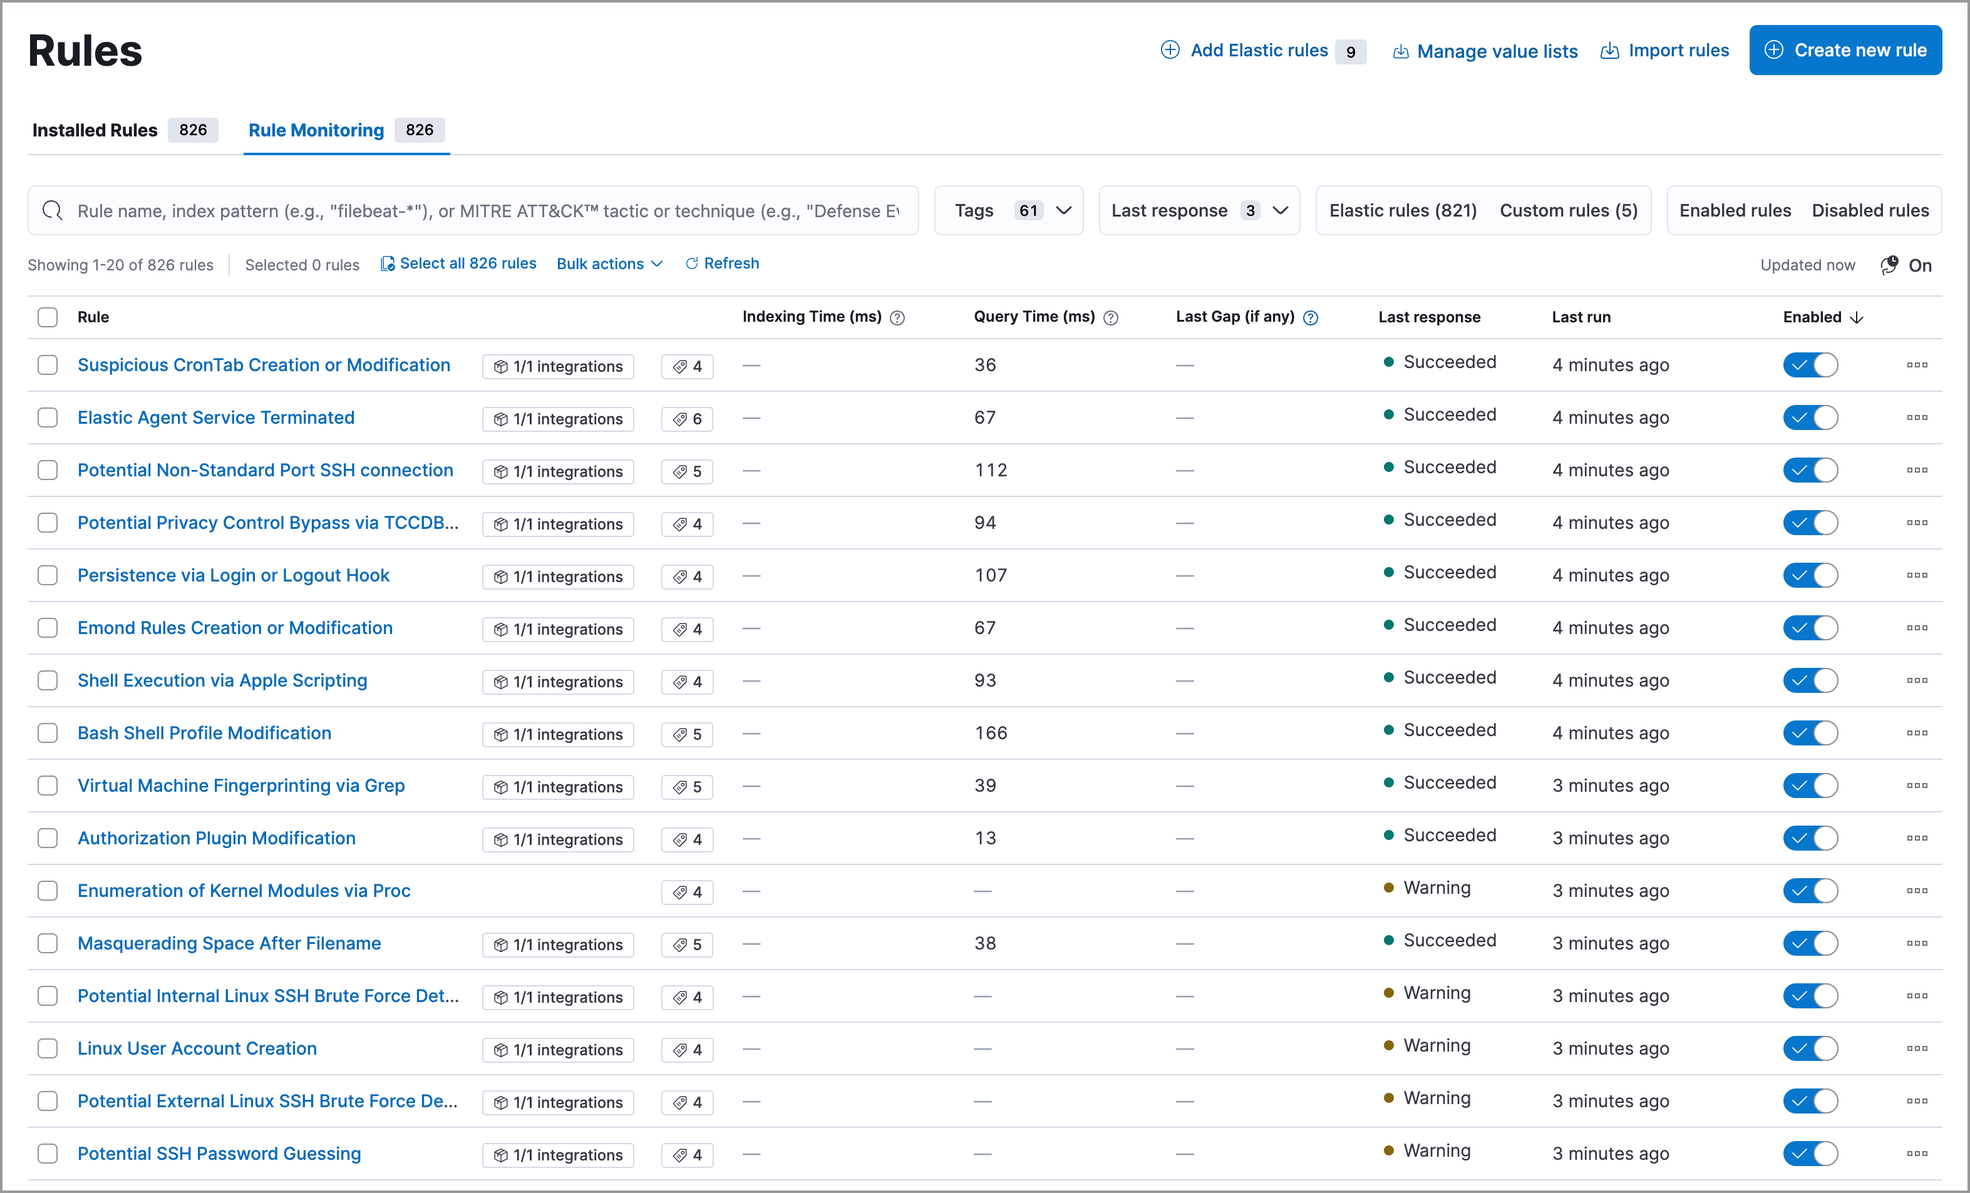
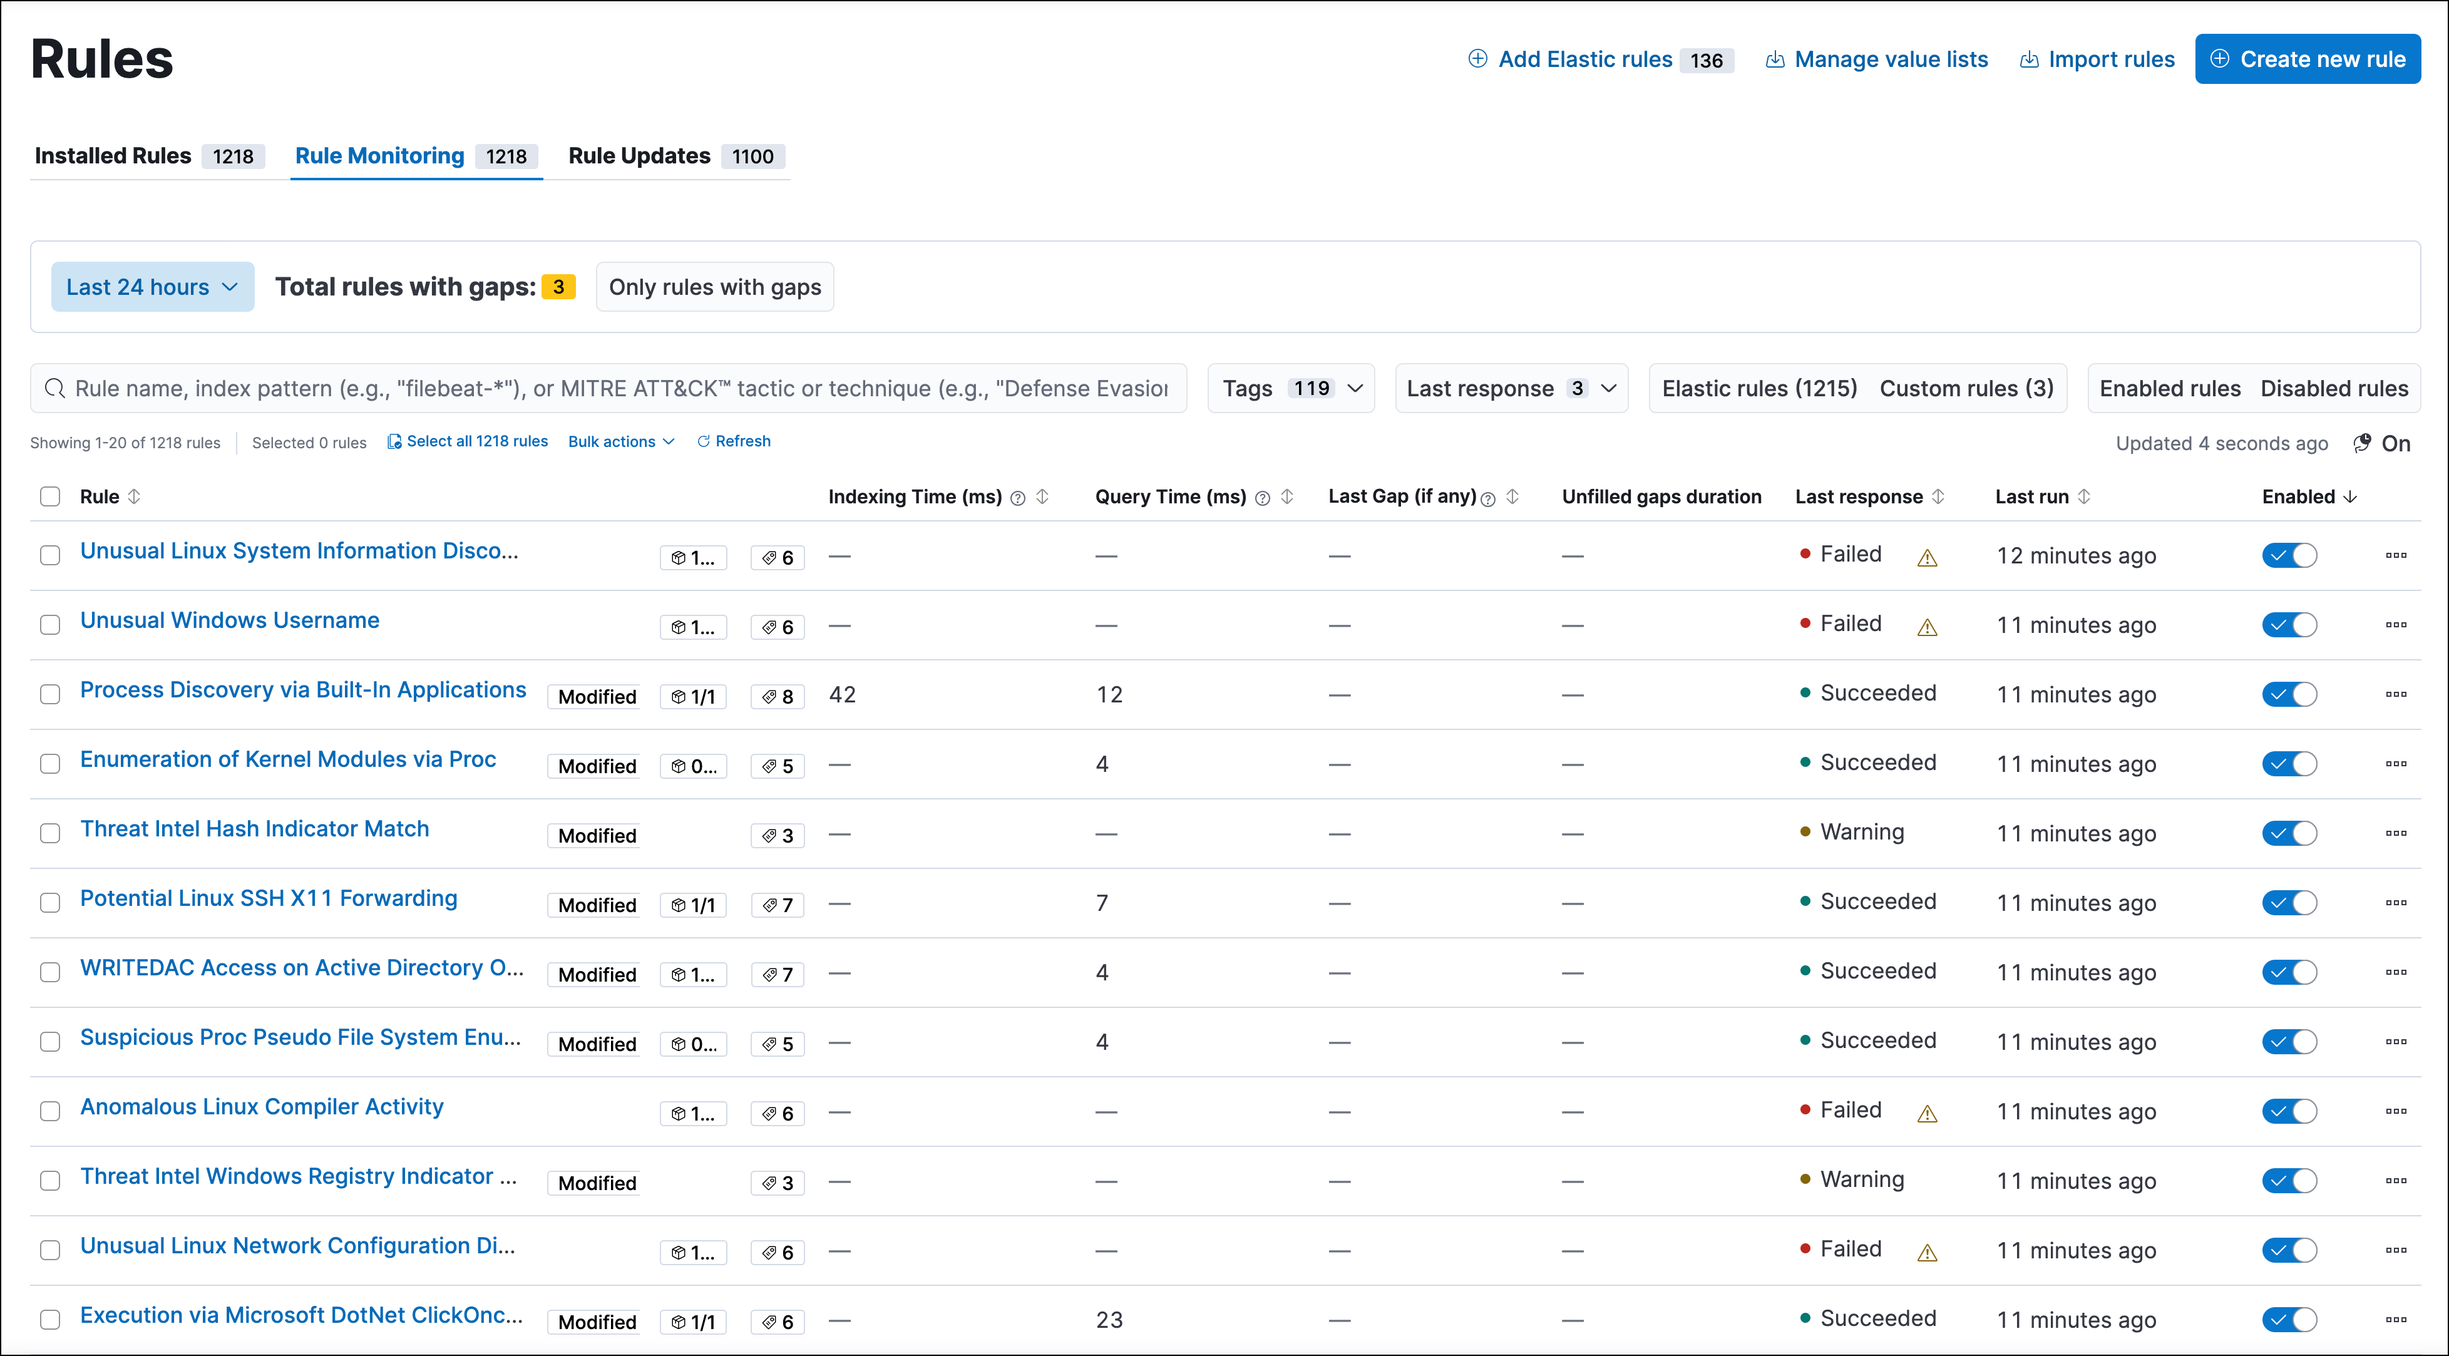
[9.0 & Serverless] Rule gaps and manual rule runs (#892)
Contributes to https://github.com/elastic/security-docs/issues/6493,
https://github.com/elastic/docs-content/issues/287, and
https://github.com/elastic/docs-content/issues/888 by providing 9.0 and
Serverless docs for rule gaps and updating docs for manual runs. See
twin 8.18 PR (https://github.com/elastic/security-docs/pull/6649) for a
breakdown of changes.

**NOTE:** This PR also contains minor fixes to other Serverless pages to
remove errors like double spaces.

Previews:

- [Rule Monitoring
tab](https://docs-v3-preview.elastic.dev/elastic/docs-content/pull/892/solutions/security/detect-and-alert/monitor-rule-executions)
- [Execution results
tab](https://docs-v3-preview.elastic.dev/elastic/docs-content/pull/892/solutions/security/detect-and-alert/monitor-rule-executions#rule-execution-logs)
- [Gaps
table](https://docs-v3-preview.elastic.dev/elastic/docs-content/pull/892/solutions/security/detect-and-alert/monitor-rule-executions#gaps-table)
- [Manual runs
table](https://docs-v3-preview.elastic.dev/elastic/docs-content/pull/892/solutions/security/detect-and-alert/monitor-rule-executions#manual-runs-table)
- [Manage detection rules | Run rules
manually](https://docs-v3-preview.elastic.dev/elastic/docs-content/pull/892/solutions/security/detect-and-alert/manage-detection-rules#manually-run-rules)

---------

diff --git a/solutions/security/detect-and-alert/monitor-rule-executions.md b/solutions/security/detect-and-alert/monitor-rule-executions.md
@@ -21,7 +21,7 @@ Refer to the [Troubleshoot missing alerts](../../../troubleshoot/security/detect
 
 ## Rule Monitoring tab [rule-monitoring-tab]
 
-To view a summary of all rule executions, including the most recent failures and execution times, select the **Rule Monitoring** tab on the **Rules** page. To access the tab, find **Detection rules (SIEM)** in the navigation menu or look for “Detection rules (SIEM)” using the [global search field](/explore-analyze/find-and-organize/find-apps-and-objects.md), then go to the **Rule Monitoring** tab.
+To view a summary of all rule executions (including the most recent failures, execution times, and gaps in rule executions), select the **Rule Monitoring** tab on the **Rules** page. To access the tab, find **Detection rules (SIEM)** in the navigation menu or look for “Detection rules (SIEM)” using the [global search field](/explore-analyze/find-and-organize/find-apps-and-objects.md), then go to the **Rule Monitoring** tab.
 
 :::{image} /solutions/images/security-monitor-table.png
 :alt: monitor table
@@ -37,19 +37,28 @@ To sort the rules list, click any column header. To sort in descending order, cl
 
 For detailed information on a rule, the alerts it generated, and associated errors, click on its name in the table. This also allows you to perform the same actions that are available on the [**Installed Rules** tab](manage-detection-rules.md), such as modifying or deleting rules, activating or deactivating rules, exporting or importing rules, and duplicating prebuilt rules.
 
+For information about rule execution gaps (which are periods of time when a rule didn't run), use the panel above the table. The time filter on the left allows you to select a time range for viewing gap data. The **Total rules with gaps:** field tells you how many rules have unfilled or partially filled gaps within the selected time range. The **Only rules with gaps** filter on the right lets you only display rules with unfilled or partially filled gaps. 
 
-## Execution results [rule-execution-logs]
+Within the table, the **Last Gap (if any)** column conveys how long the most recent gap for a rule lasted. The **Unfilled gaps duration** column shows whether a rule still has gaps and provides a total sum of the remaining unfilled or partially filled gaps. The total sum can change based on the time range that you select in the panel above the table. If a rule has no gaps, the columns display a dash (`––`).
+
+::::{tip} 
+For a detailed view of a rule's gaps, go to the **Execution results** tab and check the [Gaps table](/solutions/security/detect-and-alert/monitor-rule-executions.md#gaps-table).
+::::
+
+## Execution results tab [rule-execution-logs]
+
+From the **Execution results** tab, you can access the rule’s execution log, monitor and address gaps in a rule's execution schedule, and check manual runs for the rule. To find the tab, click the rule's name to open its details, then scroll down. 
+
+### Execution log table [execution-log-table]
 
 Each detection rule execution is logged, including the execution type, the execution’s success or failure, any warning or error messages, how long it took to search for data, create alerts, and complete. This can help you troubleshoot a particular rule if it isn’t behaving as expected (for example, if it isn’t creating alerts or takes a long time to run).
-
-To access a rule’s execution log, click the rule’s name to open its details, then scroll down and select the **Execution results** tab. Within the Execution log table, you can click the arrow at the end of a row to expand a long warning or error message.
 
 :::{image} /solutions/images/security-rule-execution-logs.png
 :alt: Execution log table on the rule execution results tab
 :screenshot:
 :::
 
-You can hover over each column heading to display a tooltip about that column’s data. Click a column heading to sort the table by that column.
+You can hover over each column heading to display a tooltip about that column’s data. Click a column heading to sort the table by that column. Within the Execution log table, you can click the arrow at the end of a row to expand a long warning or error message.
 
 Use these controls to filter what’s included in the logs table:
 
@@ -70,32 +79,67 @@ Use these controls to filter what’s included in the logs table:
 * The **Actions** column allows you to show alerts generated from a given rule execution. Click the filter icon (![Filter icon](/solutions/images/security-filter-icon.png "title =20x20")) to create a global search filter based on the rule execution’s ID value. This replaces any previously applied filters, changes the global date and time range to 24 hours before and after the rule execution, and displays a confirmation notification. You can revert this action by clicking **Restore previous filters** in the notification.
 
 
-### Manual runs table [manual-runs-table]
+### Gaps table [gaps-table]
 
 ::::{warning}
 This functionality is in beta and is subject to change. The design and code is less mature than official GA features and is being provided as-is with no warranties. Beta features are not subject to the support SLA of official GA features.
 ::::
 
+Gaps in rule executions are periods of time where a rule didn’t run. They can be caused by various disruptions, including system updates, rule failures, or simply turning off a rule. Addressing gaps is essential for maintaining consistent coverage and avoiding missed alerts.
 
-Each manual run can produce multiple rule executions, depending on the time range of the run and the rule’s execution schedule. These details are shown in the Manual runs table.
+::::{tip}
+Refer to the [Troubleshoot gaps](../../../troubleshoot/security/detection-rules.md#troubleshoot-gaps) section for strategies for avoiding gaps.
+::::
 
-To access the table, navigate to the detection rules page, click the rule’s name to open its details, then scroll down and select the **Execution results** tab. Scroll down again to find the Manual runs table.
+Use the information in the Gaps table to assess the scope and severity of rule execution gaps. To control what's shown in the table, you can filter the table by gap status, select a time range for viewing gap data, and sort multiple columns. 
 
-To stop an active run, go to the appropriate row and click **Stop run** in the **Actions** column. Completed rule executions for each manual run are logged in the Execution log table.
+:::{image} /solutions/images/security-gaps-table.png
+:alt: Gaps table on the rule execution results tab
+:screenshot:
+:::
+
+The Gaps table has the following columns:
+
+* **Status**: The current state of the gap. It can be `Filled`, `Partially filled`, or `Unfilled`.
+* **Detected at**: The date and time the gap was first discovered.
+* **Manual fill tasks**: The status of the manual run that’s filling the gap. For more details about the manual run, refer to its entry in the [Manual runs table](/solutions/security/detect-and-alert/monitor-rule-executions.md#manual-runs-table).
+* **Event time covered**: How much progress the manual run has made filling the gap. 
+
+    ::::{note} 
+    If you stop a manual run that's hasn't finished filling a gap, the gap’s status will be set to `Partially filled`. To fill the remaining gap, you can select the **Fill remaining gap** action or [manually run](/solutions/security/detect-and-alert/manage-detection-rules.md#manually-run-rules) the rule over the gap's time frame.
+    ::::
+
+* **Range**: When the gap started and ended. 
+* **Total gap duration**: How long the gap lasted.
+* **Actions**: The actions that you can take for the gap. They can be **Fill gap** (starts a manual run to fill the gap) or **Fill remaining gap** (starts a manual run that fills the leftover portion of the gap).
+
+
+### Manual runs table [manual-runs-table]
+
+You can [manually run](/solutions/security/detect-and-alert/manage-detection-rules.md#manually-run-rules) enabled rules for a specified period of time to deliberately test them, provide additional rule coverage, or fill gaps in rule executions. Each manual run can produce multiple rule executions, depending on the time range of the run and the rule's execution schedule. 
+
+::::{note}
+Manual runs are executed with low priority and limited concurrency, meaning they might take longer to complete. This can be especially apparent for rules requiring multiple executions.
+::::
+
+The Manual runs table tracks manual rule executions and provides important details such as:
+
+* The total number of rule executions that the manual run will produce and how many are failing, pending, running, and completed.
+* When the manual run started and the time range that it will cover.
+
+    ::::{note} 
+    To stop an active run, go to the appropriate row in the table and click **Stop run** in the **Actions** column. Completed rule executions for each manual run are logged in the Execution log table.
+    ::::
+
+* The status of each manual run:
+
+    * `Pending`: The rule is not yet running. 
+    * `Running`: The rule is executing during the time range you specified. Some rule types, such as indicator match rules, can take longer to run.
+    * `Error`: The rule's configuration is preventing it from running correctly. For example, the rule's conditions cannot be validated.
 
 :::{image} /solutions/images/security-manual-rule-run-table.png
 :alt: Manual rule runs table on the rule execution results tab
 :screenshot:
 :::
 
-The Manual runs table displays important details such as:
 
-* The status of each manual run:
-
-    * **Pending**: The rule is not yet running.
-    * **Running**: The rule is executing during the time range you specified. Some rules, such as indicator match rules, can take longer to run.
-    * **Error**: The rule’s configuration is preventing it from running correctly. For example, the rule’s conditions cannot be validated.
-
-* When a manual run started and the time in which it will run
-* The number of rule executions that are failing, pending, running, and completed for a manual run
-* The total number of rule executions that are occurring for a manual run

diff --git a/solutions/security/detect-and-alert/manage-detection-rules.md b/solutions/security/detect-and-alert/manage-detection-rules.md
@@ -66,7 +66,7 @@ For {{ml}} rules, an indicator icon (![Error icon from rules table](/solutions/i
 ::::{admonition} Requirements
 * You can edit custom rules and bulk-modify them with any [{{stack}} subscription](https://www.elastic.co/pricing) or [{{serverless-short}} project tier](../../../deploy-manage/deploy/elastic-cloud/project-settings.md). 
 * You can edit [rule notifications](/solutions/security/detect-and-alert/create-detection-rule.md#rule-notifications) (notifications and response actions) for prebuilt rules with any {{stack}} subscription or {{serverless-short}} project tier.
-* You must have an [Enterprise subscription](https://www.elastic.co/pricing)  {{stack}} or a [Complete project tier](../../../deploy-manage/deploy/elastic-cloud/project-settings.md) subscription on {{serverless-short}} to edit all prebuilt rule settings (except for the **Author** and **License** fields) and bulk-modify them. 
+* You must have an [Enterprise subscription](https://www.elastic.co/pricing) {{stack}} or a [Complete project tier](../../../deploy-manage/deploy/elastic-cloud/project-settings.md) subscription on {{serverless-short}} to edit all prebuilt rule settings (except for the **Author** and **License** fields) and bulk-modify them. 
 
 ::::
 
@@ -130,12 +130,7 @@ When duplicating a rule with exceptions, you can choose to duplicate the rule an
 
 ## Run rules manually [manually-run-rules] 
 
-::::{warning}
-This functionality is in beta and is subject to change. The design and code is less mature than official GA features and is being provided as-is with no warranties. Beta features are not subject to the support SLA of official GA features.
-::::
-
-
-Manually run enabled rules for a specified period of time for testing purposes or additional rule coverage.
+Manually run enabled rules for a specified period of time to deliberately test them, provide additional rule coverage, or fill gaps in rule executions.
 
 ::::{important}
 Before manually running rules, make sure you properly understand and plan for rule dependencies. Incorrect scheduling can lead to inconsistent rule results.
@@ -151,19 +146,16 @@ Before manually running rules, make sure you properly understand and plan for ru
 3. Specify when the manual run starts and ends. The default selection is the current day starting three hours in the past. The rule will search for events during the selected time range.
 4. Click **Run** to manually run the rule.
 
-    ::::{note}
-    Manual runs can produce multiple rule executions. This is determined by the manual run’s time range and the rule’s execution schedule.
-    ::::
+The rule will run over the time range that you selected. Note that all [rule actions](/solutions/security/detect-and-alert/create-detection-rule.md#rule-notifications) will also be activated, except for **Summary of alerts** actions that run at a custom frequency.
 
-
-The manual run’s details are shown in the [Manual runs](/solutions/security/detect-and-alert/monitor-rule-executions.md#manual-runs-table) table on the **Execution results** tab. Changes you make to the manual run or rule settings will display in the Manual runs table after the current run completes.
+Go to the [Manual runs table](/solutions/security/detect-and-alert/monitor-rule-executions.md#manual-runs-table) on the **Execution results** tab to track the manual rule executions. If you manually ran the rule over a gap, you can also monitor the gap fill's progress from the [Gaps table](/solutions/security/detect-and-alert/monitor-rule-executions.md#gaps-table).
 
 ::::{note}
 Be mindful of the following:
 
-* Rule actions are not activated during manual runs.
-* Except for threshold rules, duplicate alerts aren’t created if you manually run a rule during a time range that was already covered by a scheduled run.
-* Manual runs are executed with low priority and limited concurrency, meaning they might take longer to complete. This can be especially apparent for rules requiring multiple executions.
+* Any changes that you make to the manual run or rule settings will display in the Manual runs table after the current run completes.
+* Except for threshold rules, duplicate alerts aren't created if you manually run a rule during a time range that was already covered by a scheduled run.
+* Manually running a custom query rule with suppression may incorrectly inflate the number of suppressed alerts.
 
 ::::
 
@@ -188,7 +180,7 @@ You can snooze rule notifications from the **Installed Rules** tab, the rule det
 
 ::::{admonition} Requirements
 * You can export and import custom rules and prebuilt rules (modified and unmodified) with any [{{stack}} subscription](https://www.elastic.co/pricing) or [{{serverless-short}} project tier](../../../deploy-manage/deploy/elastic-cloud/project-settings.md).
-*  At minimum, your role needs `Read` privileges for the **Action and Connectors** feature to import rules with actions. To overwrite or add new connectors, you need `All` privileges. Refer to [Enable and access detections](/solutions/security/detect-and-alert/detections-requirements.md#enable-detections-ui) to learn more about the required privileges for managing rules.
+* At minimum, your role needs `Read` privileges for the **Action and Connectors** feature to import rules with actions. To overwrite or add new connectors, you need `All` privileges. Refer to [Enable and access detections](/solutions/security/detect-and-alert/detections-requirements.md#enable-detections-ui) to learn more about the required privileges for managing rules.
 ::::
 
 You can export custom detection rules to an `.ndjson` file, which you can then import into another {{elastic-sec}} environment.
